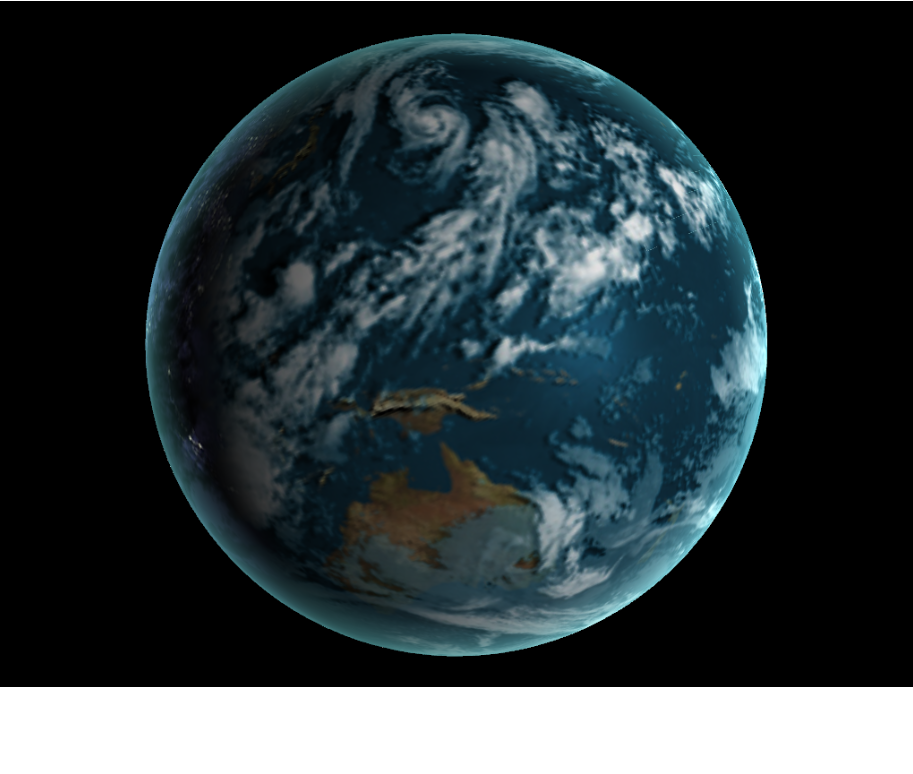
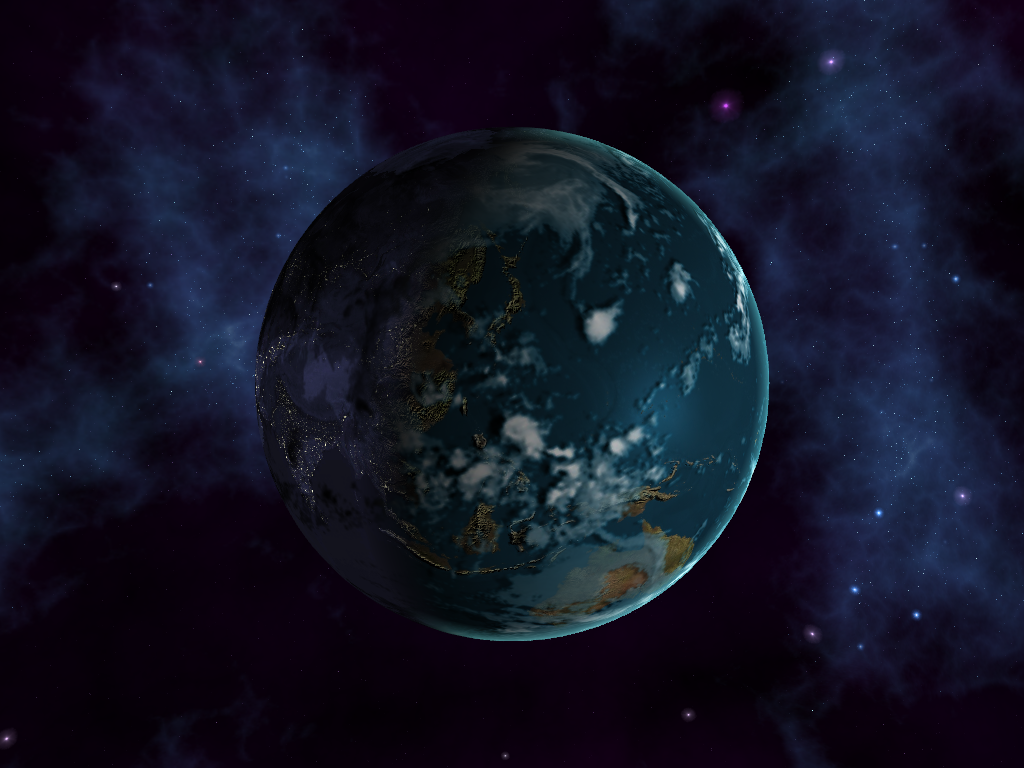
update readme

diff --git a/README.md b/README.md
@@ -69,18 +69,24 @@ Additionally:
 To enhance realism, I also Implemented:
 
 * Cloud shadows via ray-tracing through the cloud map in the fragment shader
+* Spacebox
 
-The following image demonstrating the region on earth at dawn, where raytraced shadow is more obvious:
+The following image demonstrating the region on earth at dawn, where rim light is applied to gibe a feeling of atmosphere:
+
+[![screen](images/globe_night_lights.png)](http://wuhao1117.github.io/Project5-WebGL/frag_globe.html)
+
+Ray traced shadow cast by clouds. Notice the misalignment between shadow and cloud is larger where the incident light angle from sun is larger:
 
 [![screen](images/globe_shadow.png)](http://wuhao1117.github.io/Project5-WebGL/frag_globe.html)
-
-At noon, the ray-traced shadow is directly underneath the cloud, making it less visible from camera:
-
-[![screen](images/globe_lit.png)](http://wuhao1117.github.io/Project5-WebGL/frag_globe.html)
 
 -------------------------------------------------------------------------------
 PERFORMANCE EVALUATION
 -------------------------------------------------------------------------------
 Curiously, adding a javascript frame rate counter shows me a constant 30FPS for every demo. Clearly something is capping the frame rate to 30 since my graphic card is way more capable of doing merely 30FPS. Will look into this issue further when I had time.
 
+-------------------------------------------------------------------------------
+ACKNOWLEDGMENT
+-------------------------------------------------------------------------------
+* Skybox generation:  [Spacescape](http://alexcpeterson.com/portfolio/spacescape) 
+* High resolution globe texture: http://planetpixelemporium.com/planets.html
 
